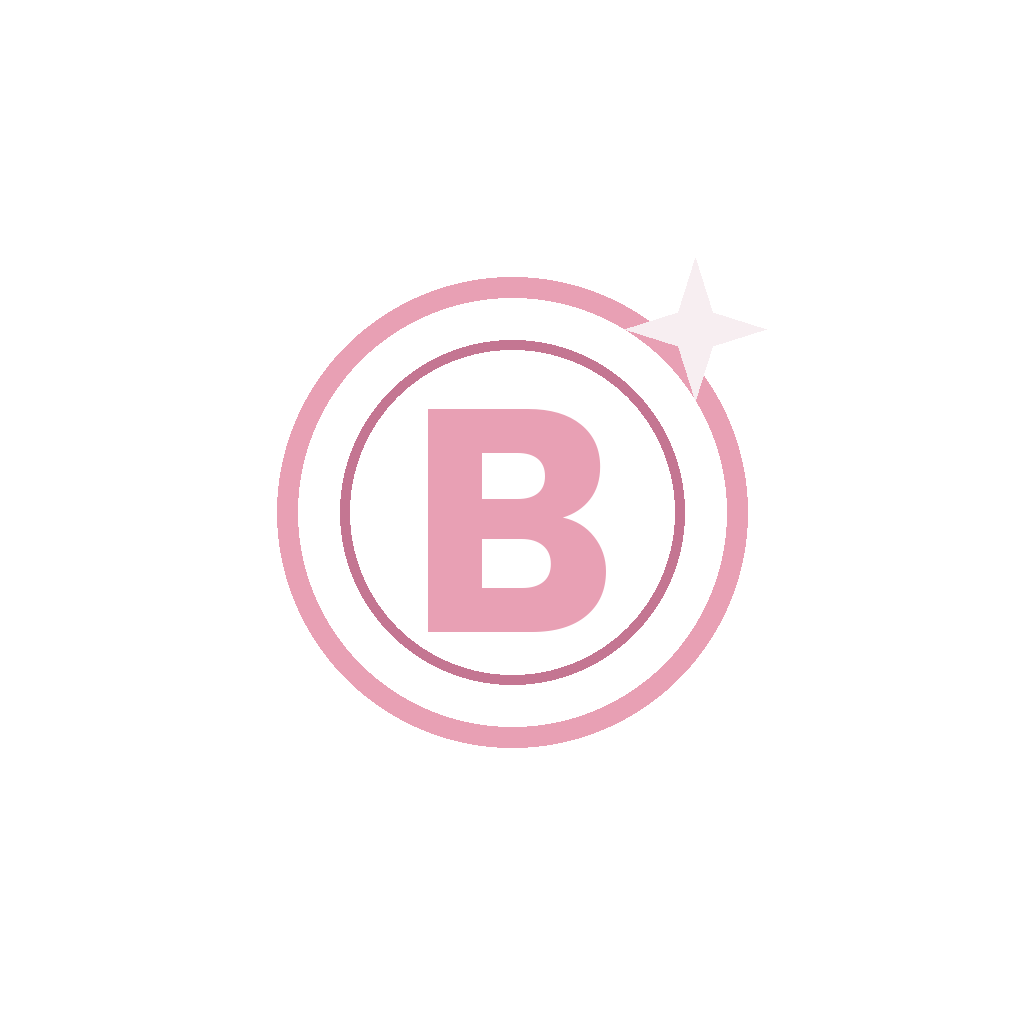
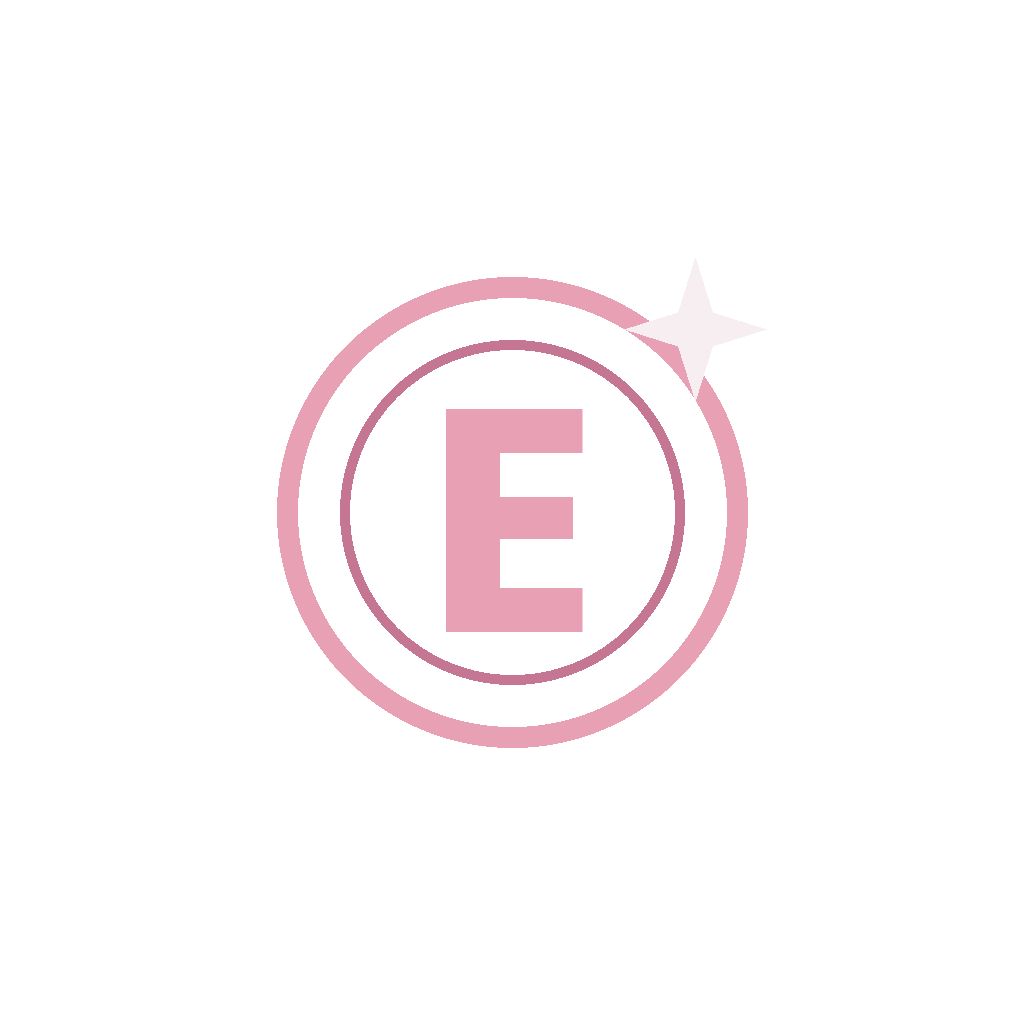
Marca Eleva One e dominio elevaone.store; guia de producao com portas e variaveis
Claude-Session: https://claude.ai/code/session_01YS4sEzTr2S4U31DuZbdvtd

diff --git a/apps/landing/public/index.html b/apps/landing/public/index.html
@@ -3,8 +3,8 @@
 <head>
 <meta charset="UTF-8">
 <meta name="viewport" content="width=device-width, initial-scale=1, viewport-fit=cover">
-<meta name="description" content="Bella One: agenda, equipe, comissão e financeiro do seu salão num só app. Baixe o app Android ou agende pela web.">
-<title>Bella One</title>
+<meta name="description" content="Eleva One: agenda, equipe, comissão e financeiro do seu salão num só app. Baixe o app Android ou agende pela web.">
+<title>Eleva One</title>
 <link rel="icon" href="assets/favicon-32.png">
 <link rel="preconnect" href="https://fonts.googleapis.com">
 <link rel="preconnect" href="https://fonts.gstatic.com" crossorigin>
@@ -223,14 +223,14 @@
 <body>
 <header class="site">
   <div class="wrap nav">
-    <div class="brand"><img class="brand-mark" src="assets/bellaone-mark-128.png" alt="Bella One" width="38" height="38">Bella One</div>
+    <div class="brand"><img class="brand-mark" src="assets/elevaone-mark-128.png" alt="Eleva One" width="38" height="38">Eleva One</div>
     <nav class="links-desktop">
       <a href="#recursos">Recursos</a>
       <a href="#como-funciona">Como funciona</a>
-      <a href="/downloads/bellaone-latest.apk">Baixar app</a>
+      <a href="/downloads/elevaone-latest.apk">Baixar app</a>
     </nav>
     <div style="display:flex;align-items:center;gap:10px;">
-      <a class="btn btn-primary nav-cta" href="/downloads/bellaone-latest.apk">Baixar o app</a>
+      <a class="btn btn-primary nav-cta" href="/downloads/elevaone-latest.apk">Baixar o app</a>
       <button class="menu-toggle" id="menuToggle" aria-label="Abrir menu" aria-expanded="false">
         <svg viewBox="0 0 24 24" width="20" height="20" fill="none" stroke="currentColor" stroke-width="2" stroke-linecap="round"><line x1="4" y1="7" x2="20" y2="7"/><line x1="4" y1="12" x2="20" y2="12"/><line x1="4" y1="17" x2="20" y2="17"/></svg>
       </button>
@@ -239,7 +239,7 @@
   <div class="wrap mobile-panel" id="mobilePanel" hidden>
     <a href="#recursos">Recursos</a>
     <a href="#como-funciona">Como funciona</a>
-    <a class="btn btn-primary" href="/downloads/bellaone-latest.apk" style="width:fit-content;">Baixar o app</a>
+    <a class="btn btn-primary" href="/downloads/elevaone-latest.apk" style="width:fit-content;">Baixar o app</a>
   </div>
 </header>
 
@@ -251,11 +251,11 @@
         <h1>Cabelo e unhas, num só agendamento.</h1>
         <p class="lede">Sua cliente marca escova e manicure em sequência, com a profissional certa de cada área. Você cuida da agenda, da equipe, da comissão e do caixa num só app.</p>
         <div class="hero-ctas">
-          <a class="btn btn-primary" href="/downloads/bellaone-latest.apk">
+          <a class="btn btn-primary" href="/downloads/elevaone-latest.apk">
             <svg viewBox="0 0 24 24" width="16" height="16" fill="none" stroke="currentColor" stroke-width="2" stroke-linecap="round" stroke-linejoin="round"><path d="M12 3v13"/><path d="M7 11l5 5 5-5"/><path d="M5 21h14"/></svg>
             Baixar o app (Android)
           </a>
-          <a class="web-link" href="https://app.bellaone.store" target="_blank" rel="noopener">Agendar online →</a>
+          <a class="web-link" href="https://app.elevaone.store" target="_blank" rel="noopener">Agendar online →</a>
         </div>
         <div class="chips">
           <span class="chip"><svg viewBox="0 0 24 24" fill="none" stroke="currentColor" stroke-width="2" stroke-linecap="round"><rect x="3" y="4" width="18" height="17" rx="2"/><path d="M3 9h18M8 2v4M16 2v4"/></svg>Agenda 24h</span>
@@ -270,7 +270,7 @@
             <div class="phone-notch"></div>
             <div class="phone-body">
               <p class="eyebrow">Painel do dono</p>
-              <p class="phone-shop">Studio Bella</p>
+              <p class="phone-shop">Studio Aurora</p>
               <div class="stat-row">
                 <div class="stat-tile wide">
                   <p class="label">Faturamento hoje</p>
@@ -378,14 +378,14 @@
           <p class="lede">Teste grátis, sem cartão de crédito. Dois jeitos de entrar, dependendo de quem você é:</p>
         </div>
         <div class="paths">
-          <a class="path-card" href="/downloads/bellaone-latest.apk">
+          <a class="path-card" href="/downloads/elevaone-latest.apk">
             <span class="path-icon"><svg viewBox="0 0 24 24" fill="none" stroke="currentColor" stroke-width="2" stroke-linecap="round" stroke-linejoin="round"><rect x="5" y="2" width="14" height="20" rx="2.5"/><path d="M12 18h.01"/></svg></span>
             <span>
               <strong>Sou dona de salão</strong>
               <span>Baixar o app Android (.apk) — instala em menos de um minuto.</span>
             </span>
           </a>
-          <a class="path-card" href="https://app.bellaone.store" target="_blank" rel="noopener">
+          <a class="path-card" href="https://app.elevaone.store" target="_blank" rel="noopener">
             <span class="path-icon"><svg viewBox="0 0 24 24" fill="none" stroke="currentColor" stroke-width="2" stroke-linecap="round"><rect x="2" y="3" width="20" height="14" rx="2"/><line x1="8" y1="21" x2="16" y2="21"/><line x1="12" y1="17" x2="12" y2="21"/></svg></span>
             <span>
               <strong>Agendar online</strong>
@@ -400,7 +400,7 @@
 
 <footer>
   <div class="wrap footer-row">
-    <div class="brand"><img class="brand-mark" src="assets/bellaone-mark-128.png" alt="Bella One" width="26" height="26" style="width:26px;height:26px;">Bella One</div>
+    <div class="brand"><img class="brand-mark" src="assets/elevaone-mark-128.png" alt="Eleva One" width="26" height="26" style="width:26px;height:26px;">Eleva One</div>
     <a class="dev-credit" href="https://divisionstech.com" target="_blank" rel="noopener">
       <span>desenvolvido por</span>
       <img src="assets/divisionstech-260.png" alt="Divisions Tech" height="16">

diff --git a/apps/api/src/common/email/email.service.ts b/apps/api/src/common/email/email.service.ts
@@ -35,7 +35,7 @@ export class EmailService {
   }
 
   private get remetente(): string {
-    return this.config.get<string>("SMTP_FROM") || '"Bella One" <no-reply@bellaone.store>';
+    return this.config.get<string>("SMTP_FROM") || '"Eleva One" <no-reply@elevaone.store>';
   }
 
   private async enviar(destinatario: string, assunto: string, html: string): Promise<void> {
@@ -61,7 +61,7 @@ export class EmailService {
     const html = `
       <div style="background:#161014;padding:32px 16px;font-family:-apple-system,Helvetica,Arial,sans-serif;">
         <div style="max-width:420px;margin:0 auto;background:#1c1816;border-radius:12px;padding:32px 24px;">
-          <p style="color:#E8A0B4;font-size:20px;font-weight:700;margin:0 0 20px;">Bella One</p>
+          <p style="color:#E8A0B4;font-size:20px;font-weight:700;margin:0 0 20px;">Eleva One</p>
           <p style="color:#F7EEF1;font-size:15px;margin:0 0 8px;">Olá, ${primeiroNome}!</p>
           <p style="color:#F7EEF1;font-size:15px;line-height:22px;margin:0 0 24px;">
             Recebemos um pedido para redefinir a senha da sua conta. Use o código abaixo no app — ele
@@ -75,6 +75,6 @@ export class EmailService {
           </p>
         </div>
       </div>`;
-    await this.enviar(destinatario, "Seu código de recuperação de senha — Bella One", html);
+    await this.enviar(destinatario, "Seu código de recuperação de senha — Eleva One", html);
   }
 }

diff --git a/apps/api/src/main.ts b/apps/api/src/main.ts
@@ -11,9 +11,9 @@ import { AppModule } from "./app.module";
 // cookie). Dá pra adicionar mais origens em produção via CORS_ORIGINS
 // (separadas por vírgula) sem precisar mexer no código.
 const ORIGENS_PADRAO = [
-  "https://app.bellaone.store",
-  "https://painel.bellaone.store",
-  "https://www.painel.bellaone.store",
+  "https://app.elevaone.store",
+  "https://painel.elevaone.store",
+  "https://www.painel.elevaone.store",
 ];
 
 function origemPermitida(origin: string | undefined, extras: string[]): boolean {
@@ -24,7 +24,7 @@ function origemPermitida(origin: string | undefined, extras: string[]): boolean 
   // banco-de-dados-salao.lcgx8u.easypanel.host) — o "lcgx8u" é o
   // identificador da sua conta/cluster, não de qualquer app no EasyPanel.
   // Cobre o painel/API/app por qualquer domínio padrão deles, inclusive
-  // enquanto o DNS de painel.bellaone.store não estiver resolvendo.
+  // enquanto o DNS de painel.elevaone.store não estiver resolvendo.
   if (/^https:\/\/[a-z0-9-]+\.lcgx8u\.easypanel\.host$/.test(origin)) return true;
   return [...ORIGENS_PADRAO, ...extras].includes(origin);
 }

diff --git a/apps/api/src/auth/auth.controller.ts b/apps/api/src/auth/auth.controller.ts
@@ -15,9 +15,9 @@ import { COOKIE_TOKEN } from "./jwt.strategy";
 // token num cookie httpOnly. É só a versão web do app (Expo Web, ver
 // secureStorage.web.ts) que depende desse cookie: lá o token nunca fica em
 // localStorage, então nem um script malicioso (XSS) consegue ler. `secure`
-// fica ligado sempre — o site roda em HTTPS (ver bellaone.store) — e
-// `sameSite: lax` já cobre o caso de app.bellaone.store chamando
-// api.bellaone.store (mesmo domínio-base, subdomínios diferentes).
+// fica ligado sempre — o site roda em HTTPS (ver elevaone.store) — e
+// `sameSite: lax` já cobre o caso de app.elevaone.store chamando
+// api.elevaone.store (mesmo domínio-base, subdomínios diferentes).
 const UM_DIA_MS = 24 * 60 * 60 * 1000;
 
 function setarCookieToken(res: Response, token: string) {

diff --git a/apps/mobile/src/utils/atualizacaoApk.ts b/apps/mobile/src/utils/atualizacaoApk.ts
@@ -28,7 +28,7 @@ import * as IntentLauncher from "expo-intent-launcher";
 // Play Store (aí a atualização do APK também passa a ser automática de
 // verdade, incluindo a instalação).
 
-const URL_VERSAO = "https://bellaone.store/downloads/versao.json";
+const URL_VERSAO = "https://elevaone.store/downloads/versao.json";
 
 interface VersaoRemota {
   versionCode: number;
@@ -66,7 +66,7 @@ export async function verificarEAtualizarApk(
   }
 
   try {
-    const destino = FileSystem.cacheDirectory + "bellaone-atualizacao.apk";
+    const destino = FileSystem.cacheDirectory + "elevaone-atualizacao.apk";
 
     const download = FileSystem.createDownloadResumable(remota.apkUrl, destino, {}, (p) => {
       if (aoProgredir && p.totalBytesExpectedToWrite > 0) {

diff --git a/apps/api/src/common/geocodificacao/geocodificacao.service.ts b/apps/api/src/common/geocodificacao/geocodificacao.service.ts
@@ -105,7 +105,7 @@ export class GeocodificacaoService {
         // Exigido pela política de uso do Nominatim — identifica a aplicação
         // que está chamando (não precisa ser um e-mail de verdade monitorado,
         // só algo que identifique o app em caso de abuso).
-        headers: { "User-Agent": "BellaOneApp/1.0 (+https://bellaone.store; contato: divisionstech@gmail.com)" },
+        headers: { "User-Agent": "ElevaOneApp/1.0 (+https://elevaone.store; contato: divisionstech@gmail.com)" },
       });
       if (!resposta.ok) {
         this.logger.warn(`Nominatim respondeu ${resposta.status} para "${consulta}"`);

diff --git a/apps/mobile/src/screens/salao/QrCodeScreen.tsx b/apps/mobile/src/screens/salao/QrCodeScreen.tsx
@@ -9,7 +9,7 @@ import { alertar } from "../../utils/alertaCompat";
 import { colors, spacing } from "../../theme/tokens";
 
 // Imagem estática (não desenhada na hora): o conteúdo é sempre o mesmo —
-// aponta pra bellaone.store — já que a plataforma ainda não tem uma página
+// aponta pra elevaone.store — já que a plataforma ainda não tem uma página
 // de agendamento própria por salão (o cliente baixa o app e procura a
 // salão de lá). Se um dia existir um link direto por salão, esse QR
 // Code passa a ser gerado dinamicamente com o id do salão em vez de usar

diff --git a/apps/api/src/assinaturas/assinaturas.service.ts b/apps/api/src/assinaturas/assinaturas.service.ts
@@ -219,7 +219,7 @@ export class AssinaturasService {
     const backUrl = this.config.get<string>("MERCADOPAGO_BACK_URL") ?? "https://www.mercadopago.com.br";
 
     const preapproval = await this.mercadoPago.criarPreapproval({
-      reason: `Assinatura BellaOS — Plano ${plano.nome}`,
+      reason: `Assinatura Eleva One — Plano ${plano.nome}`,
       // "assinaturaId::planoId": é assim que o webhook (que só recebe o id da
       // preapproval no Mercado Pago) sabe qual Assinatura/Plano atualizar.
       externalReference: `${assinatura.id}::${plano.id}`,

diff --git a/apps/admin-web/src/app/login/page.tsx b/apps/admin-web/src/app/login/page.tsx
@@ -35,7 +35,7 @@ export default function LoginPage() {
     <div style={{ minHeight: "100vh", display: "flex", alignItems: "center", justifyContent: "center" }}>
       <form onSubmit={handleSubmit} style={{ width: 320, display: "flex", flexDirection: "column", gap: 14 }}>
         <div>
-          <div style={{ fontSize: 22, fontWeight: 800 }}>BellaOS</div>
+          <div style={{ fontSize: 22, fontWeight: 800 }}>Eleva One</div>
           <div style={{ fontSize: 13, color: "#837A73" }}>Painel administrativo da plataforma</div>
         </div>
         <input

diff --git a/apps/api/src/assinaturas/assinaturas-pagamento.service.ts b/apps/api/src/assinaturas/assinaturas-pagamento.service.ts
@@ -79,7 +79,7 @@ export class AssinaturasPagamentoService {
       },
     });
 
-    const descricao = `Assinatura BellaOS — Plano ${plano.nome} (${dto.periodicidade === PeriodicidadeAssinatura.ANUAL ? "anual" : "mensal"})`;
+    const descricao = `Assinatura Eleva One — Plano ${plano.nome} (${dto.periodicidade === PeriodicidadeAssinatura.ANUAL ? "anual" : "mensal"})`;
     const externalReference = `${PREFIXO_EXTERNAL_REFERENCE}${pagamento.id}`;
 
     let motivoRecusaCartao: string | null = null;

diff --git a/apps/admin-web/src/components/Sidebar.tsx b/apps/admin-web/src/components/Sidebar.tsx
@@ -23,7 +23,7 @@ export function Sidebar() {
 
   return (
     <aside style={styles.sidebar}>
-      <div style={styles.brand}>BellaOS</div>
+      <div style={styles.brand}>Eleva One</div>
       <nav style={{ display: "flex", flexDirection: "column", gap: 2 }}>
         {ITEMS.map((item) => (
           <Link

diff --git a/apps/admin-web/src/app/layout.tsx b/apps/admin-web/src/app/layout.tsx
@@ -21,7 +21,7 @@ export default function RootLayout({ children }: { children: React.ReactNode }) 
   return (
     <html lang="pt-BR">
       <head>
-        <title>BellaOS — Painel SaaS</title>
+        <title>Eleva One — Painel SaaS</title>
       </head>
       <body>
         {isPublica ? (
